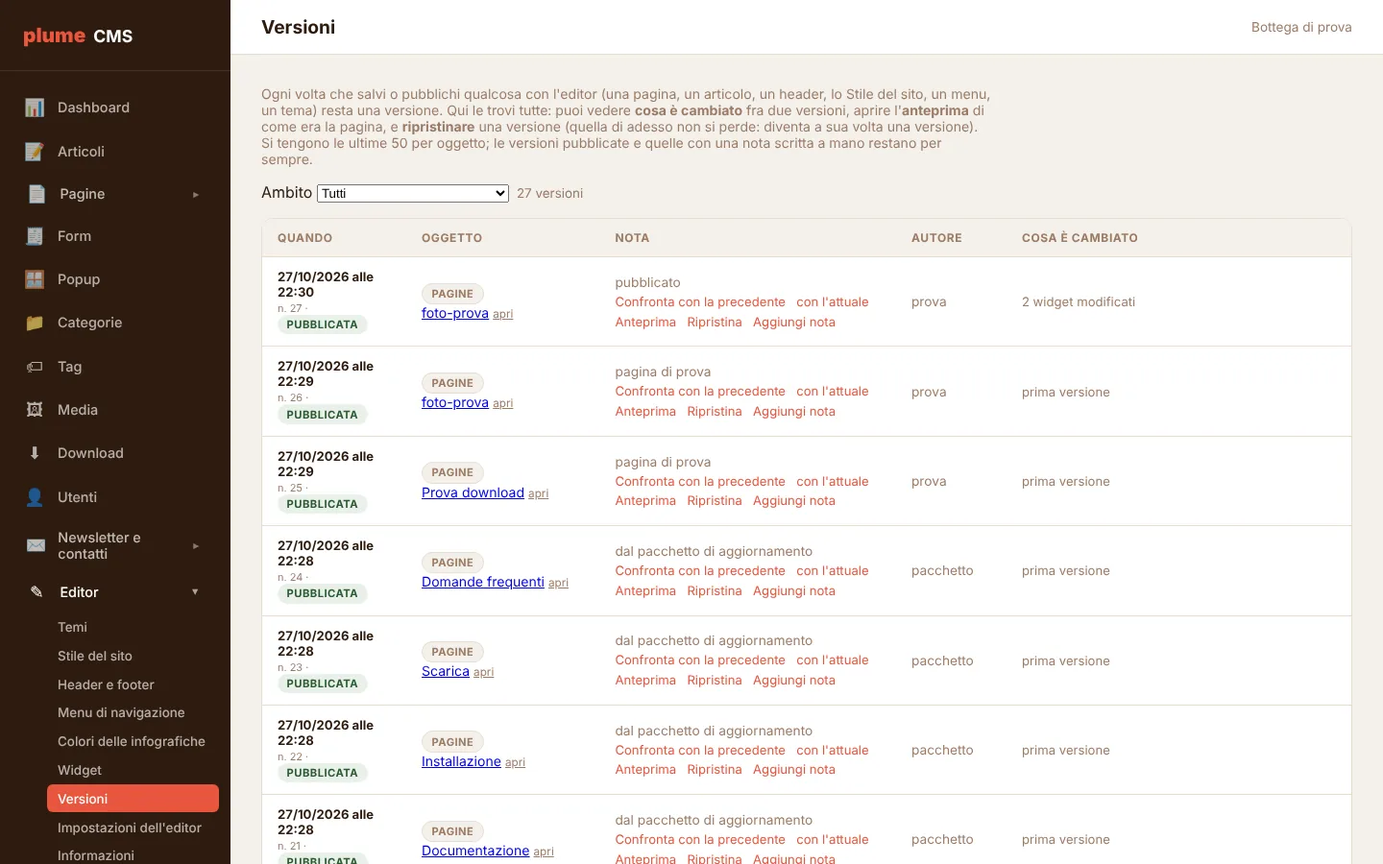
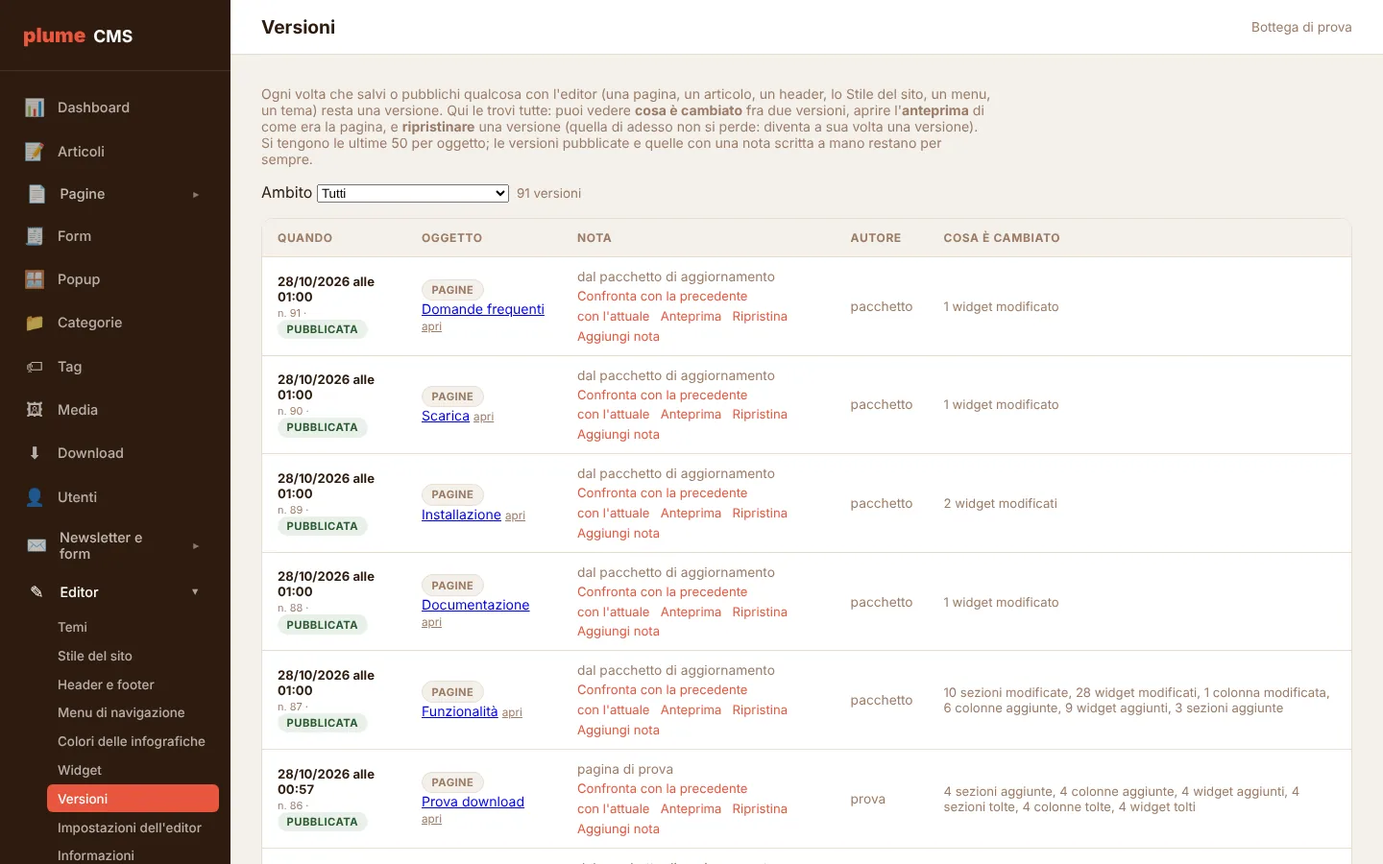
1.3.0: unione provata, testi dei widget extra neutri, sito di plumeCMS con kit, sezioni e copia
- widget Testimonianza, Carosello di testimonianze, Citazione, Titolo animato, Invito, Tabella
  prezzi: gli ultimi testi d'esempio del primo sito, ora neutri;
- sito: novità 1.3.0, blocchi Kit, Sezioni e Copia in Funzionalità, aggiornamenti con la versione
  nuova, passo 4 dell'installazione con i kit, domanda sui kit, 97 attacchi; schermate rifatte;
- prove sul codice unito: installazione 35/36 (favicon), kit Attività in cartella 44/44,
  aggiornamento 1.2.8 -> 1.3.0 11/11 identico al pixel (tranne il conto alla rovescia),
  aperture 161/161, temi 36/36, foto 20/20, sezioni 15/15, copia 30/30, versione 28/28,
  download 35/35, 97 attacchi respinti, sito 60/60.

Claude-Session: https://claude.ai/code/session_01Ddnix1ocLSpj3D8QhkAFuA

diff --git a/sito-plumecms/schermate.js b/sito-plumecms/schermate.js
@@ -25,8 +25,14 @@ const [B, D, UTENTE, PASSWORD] = process.argv.slice(2);
   await foto('editor-ritratto', '/admin/editor.php?tipo=pagine&id=1', () => editor(1, 'hero', 'stile', true));
   await p.setViewportSize({ width: 1440, height: 900 });
   for (const [n, u] of [['dashboard', '/admin/index.php'], ['stile', '/admin/design.php'], ['modelli', '/admin/modelli.php'], ['versioni', '/admin/versioni.php'],
-    ['seo', '/admin/seo.php'], ['flussi', '/admin/newsletter-flussi.php'], ['sicurezza', '/admin/sicurezza.php'], ['aggiornamenti', '/admin/aggiornamenti.php'], ['download', '/admin/scaricabili.php'],
+    ['seo', '/admin/seo.php'], ['flussi', '/admin/newsletter-flussi.php'], ['sicurezza', '/admin/sicurezza.php'], ['aggiornamenti', '/admin/aggiornamenti.php'], ['download', '/admin/scaricabili.php'], ['copia', '/admin/copia-sito.php'],
     ['temi', '/admin/temi.php'], ['menu', '/admin/menu.php'], ['form', '/admin/form.php']]) await foto(n, u);
+  // 1.3.0: l'editor della home con la linguetta Sezioni aperta.
+  await foto('sezioni', '/admin/editor.php?tipo=pagine&id=1', async () => {
+    await p.waitForTimeout(1200);
+    if (await p.locator('#ed-chiudi-revisioni').isVisible()) await p.click('#ed-chiudi-revisioni');
+    await p.click('.ed-schede-pannello button[data-pannello="sezioni"]'); await p.waitForTimeout(600);
+  });
   await p.setViewportSize({ width: 1280, height: 800 });
   for (const t of ['cosmo', 'aria', 'bottega']) await foto('tema-' + t, `/?preview=1&tema=${t}`);
   await br.close();

diff --git a/prove/prova-sito-plumecms.js b/prove/prova-sito-plumecms.js
@@ -115,6 +115,8 @@ async function contrastoParole(pg) {
   ok('nessuna immagine rotta in Funzionalità', imgF.length === 0, imgF);
   ok('Funzionalità: il blocco del download manager, con la schermata', await v.locator('#download img[src*="download.webp"]').count() === 1 && /Download manager/.test(await v.locator('#download').innerText()));
   ok('Funzionalità: il blocco delle undici aperture, con il foglio', await v.locator('#aperture img[src*="aperture.webp"]').count() === 1 && /Undici aperture/.test(await v.locator('#aperture').innerText()));
+  for (const [id, img, re] of [['kit', 'installa-4.webp', /sito vero/], ['sezioni', 'sezioni.webp', /Sezioni pronte/], ['copia', 'copia.webp', /copia del tuo sito/]])
+    ok(`Funzionalità (1.3.0): il blocco ${id}, con la schermata`, await v.locator(`#${id} img[src*="${img}"]`).count() === 1 && re.test(await v.locator(`#${id}`).innerText()));
   ok('favicon del sito', await v.locator('link[rel=icon][href*="favicon.png"]').count() === 1);
 
   // "Installalo in 5 minuti" (pagina Installazione): cosa serve prima e il carosello delle cinque schermate vere

diff --git a/sito-plumecms/costruisci.py b/sito-plumecms/costruisci.py
@@ -186,6 +186,12 @@ def funzionalita():
           '<li>Anteprima per computer, tablet e telefono, con valori diversi per ogni misura.</li>'
           '<li>Colori e caratteri globali: cambi il colore principale e cambia ovunque.</li>'
           '<li>Foto con velo, bianco e nero ed effetti animati, dalla 1.2.2.</li></ul>']),
+        ('kit', 'installa-4.webp', 'Si parte con un sito vero, non con una pagina bianca',
+         ['All\'ultimo passo l\'installatore ti chiede che sito vuoi fare: personale, attività, blog, portfolio, oppure vuoto.',
+          'Scegli, e plumeCMS parte con la home, le pagine principali e il menu già costruiti, con testi d\'esempio che ti dicono cosa scriverci. Tu cambi le parole e metti le tue foto: il sito c\'è già.']),
+        ('sezioni', 'sezioni.webp', 'Sezioni pronte: trenta modi di riempire una pagina',
+         ['Nell\'editor c\'è la linguetta Sezioni: prezzi, testimonianze, chi siamo, servizi, numeri, domande frequenti, contatti, inviti. Trenta sezioni già impaginate, in nove gruppi, ognuna con la sua anteprima.',
+          'Un clic e la sezione entra nella pagina, oppure la trascini dove vuoi. Da lì è una sezione come le altre: cambi testi, colori e widget. E segue i colori del tuo sito e del tema.']),
         ('aperture', 'aperture.webp', 'Undici aperture fra cui scegliere',
          ['La prima cosa che si vede di una pagina è la sua apertura. In plumeCMS la scegli con una tendina, fra undici disposizioni: testo e foto affiancati, tutto al centro, foto a tutto sfondo, divisa a metà, da rivista, in una scheda con il ritratto rotondo, solo parole, a mosaico, con la foto inclinata, a fascia bassa per le pagine interne, con il colore tagliato in diagonale.',
           'Cambi disposizione e i testi restano dove sono: provi, guardi, scegli. Tutte seguono i colori del tuo sito e dei temi, e si leggono bene anche al telefono.']),
@@ -210,10 +216,14 @@ def funzionalita():
           'Nelle pagine li mostri con il widget Download, a elenco o a schede, con icona, peso e pulsante. Come nella <a href="/scarica/">pagina Scarica</a> di questo sito.']),
         ('sicurezza', 'sicurezza.webp', 'Sicurezza, senza doverci pensare ogni giorno',
          ['Password robuste, accesso a due fattori, blocchi automatici contro chi prova a indovinare, sessioni che scadono, Content Security Policy, registro degli eventi.',
-          'Prima di uscire, plumeCMS è stato messo alla prova con 79 attacchi: tutti respinti. La pagina Sicurezza ti dice in verde e in rosso come sta il tuo sito.']),
+          'Prima di uscire, plumeCMS è stato messo alla prova con 97 attacchi: tutti respinti. La pagina Sicurezza ti dice in verde e in rosso come sta il tuo sito.']),
         ('aggiornamenti', 'aggiornamenti.webp', 'Aggiornamenti dal pannello, con la rete sotto',
          ['Un aggiornamento è uno zip: lo carichi da Impostazioni, Aggiornamenti, e premi Applica. Prima di toccare qualunque cosa il pannello fa una copia di sicurezza del database e dei file.',
-          'Se qualcosa va storto, rimette tutto com\'era da solo. Puoi anche programmare l\'aggiornamento per la notte.']),
+          'Se qualcosa va storto, rimette tutto com\'era da solo. Puoi anche programmare l\'aggiornamento per la notte.',
+          'Dalla 1.3.0 non devi nemmeno cercarlo: quando esce una versione nuova la dashboard te lo dice, e con Scarica e prepara lo zip arriva da solo, controllato, pronto da applicare.']),
+        ('copia', 'copia.webp', 'La copia del tuo sito, con un clic',
+         ['In Impostazioni, Copia del sito: Prepara la copia mette in uno zip il database, le immagini, i temi e i moduli. La scarichi e la tieni al sicuro.',
+          'Se un giorno serve tornare indietro, o spostare il sito su un altro hosting, Ripristina rimette tutto com\'era. Prima, per sicurezza, fa da sola una copia del sito di adesso.']),
     ]
     for i, (ancora, img, tit, testo) in enumerate(blocchi):
         foto = [immagine(img, 'plumeCMS: ' + tit)]
@@ -297,8 +307,8 @@ PASSI_INSTALLA = [
      'Scrivi host (di solito localhost), nome, utente e password del database. Il prefisso delle tabelle lascialo com\'è, a meno che nello stesso database ci sia già un altro sito.'),
     ('Sito e amministratore', 'Il nome del sito, l\'indirizzo (lo trova da solo) e il tuo utente.',
      'Nome del sito, una descrizione in una riga, l\'indirizzo e il tuo utente con una password di almeno 12 caratteri. Annotala: è la chiave di casa.'),
-    ('Installazione', 'Il riepilogo di quello che succede. Premi Installa adesso.',
-     'Prima di toccare qualcosa l\'installatore ti dice cosa farà: tabelle, amministratore, pagine di partenza, menu, header e footer. Premi Installa adesso e aspetti qualche secondo.'),
+    ('Installazione', 'Scegli che sito vuoi fare, poi Installa adesso.',
+     'Scegli il punto di partenza: personale, attività, blog, portfolio, oppure vuoto. L\'installatore ti dice cosa farà (tabelle, amministratore, pagine, menu, header e footer): premi Installa adesso e aspetti qualche secondo.'),
     ('Fine', 'Il sito è pronto. Entri nel pannello e cominci.',
      'Trovi il link al pannello e quello al sito, e le due righe per i compiti pianificati. Entri, scegli un tema e il sito è tuo.'),
 ]
@@ -395,6 +405,7 @@ def faq():
     voci = [
         ('Quanto costa? A quali condizioni lo uso?', 'Niente: plumeCMS è software libero, con licenza GNU GPL versione 3. Lo usi per tutti i siti che vuoi, tuoi o dei tuoi clienti, lo modifichi e lo ridistribuisci. Una sola regola: chi lo ridistribuisce, anche modificato, lo fa con la stessa licenza. I tuoi siti, i contenuti e i temi che disegni restano tuoi.'),
         ('Devo saper programmare?', 'No. Installi dal browser, costruisci le pagine trascinando i widget, cambi colori e caratteri da una pagina sola. Il codice serve solo se vuoi costruire un tema o un modulo tuo.'),
+        ('Devo partire da una pagina bianca?', 'No. All\'installazione scegli che sito vuoi fare (personale, attività, blog, portfolio) e plumeCMS parte con la home, le pagine e il menu già fatti. Poi, nell\'editor, la linguetta Sezioni ti dà trenta sezioni pronte da aggiungere con un clic.'),
         ('Che hosting serve?', 'Un hosting con PHP 8.2 o più nuovo e MySQL 8 (o MariaDB 10.6). Va bene un normale hosting condiviso con cPanel: non servono server dedicati.'),
         ('Posso installarlo in una cartella del mio dominio?', 'Sì. All\'installazione scrivi l\'indirizzo con la cartella, per esempio https://tuosito.it/nuovo, e plumeCMS sistema da solo link e percorsi.'),
         ('Se cambio tema, perdo le pagine?', 'No. Il tema cambia l\'aspetto: colori, caratteri, header e footer. Pagine, articoli, menu e immagini restano come sono. E lo stile di prima resta nelle Versioni.'),
@@ -490,7 +501,7 @@ def editor_json():
 
 
 # ------------------------------------------------------------------ file
-USATE = ['copertina', 'installa-1', 'installa-2', 'installa-3', 'installa-4', 'installa-5', 'editor-ritratto', 'editor', 'aperture', 'stile', 'modelli', 'versioni', 'seo', 'flussi', 'download', 'sicurezza', 'aggiornamenti', 'temi',
+USATE = ['copertina', 'sezioni', 'copia', 'installa-1', 'installa-2', 'installa-3', 'installa-4', 'installa-5', 'editor-ritratto', 'editor', 'aperture', 'stile', 'modelli', 'versioni', 'seo', 'flussi', 'download', 'sicurezza', 'aggiornamenti', 'temi',
          'tema-cosmo', 'tema-aria', 'tema-bottega']
 
 
@@ -536,6 +547,10 @@ def zip_lavagna(dest):
 
 # Le novità per chi scarica: brevi, scritte qui (il CHANGELOG è per chi sviluppa). Da aggiornare a ogni versione.
 NOVITA = [
+    ('1.3.0', 'Si parte con un sito vero', ['All\'installazione scegli che sito vuoi fare: personale, attività, blog, portfolio. Parte già fatto.',
+                                           'Nell\'editor, trenta sezioni pronte da mettere nella pagina con un clic.',
+                                           'Il pannello ti dice quando esce una versione nuova, e la prepara da solo.',
+                                           'La copia del sito con un clic, e il ripristino quando serve.']),
     ('1.2.8', 'Software libero, di tutti', ['plumeCMS ha la sua licenza: GNU GPL versione 3. Lo usi, lo modifichi, lo condividi.',
                                             'Testi d\'esempio neutri e niente più pezzi del sito da cui è nato.',
                                             'Corretti il controllo "Sono una persona" nei siti installati nella radice e la pubblicazione di notte.']),

diff --git a/cms/includes/editor-widget-extra-c.php b/cms/includes/editor-widget-extra-c.php
@@ -38,7 +38,7 @@ ewx_registra('ancora_menu', 'Ancora di menu', 'pin', 'Elementi', [
 // ---------------- Citazione (Blockquote)
 ewx_registra('citazione', 'Citazione', 'citazione-piena', 'Elementi', [
     ec('aspetto', 'scelta', 'Aspetto', 'bordo', 'contenuto', ['opzioni' => ['bordo' => 'Bordo a sinistra', 'virgolette' => 'Con le virgolette', 'riquadro' => 'Riquadro', 'pulito' => 'Pulito'], 'sezione' => 'Citazione']),
-    ec('testo', 'testolungo', 'Testo', 'Non lavoro per renderti piu forte. Lavoro per farti portare meno peso.', 'contenuto', ['sezione' => 'Citazione']),
+    ec('testo', 'testolungo', 'Testo', 'Le cose semplici, fatte bene, sono quelle che restano.', 'contenuto', ['sezione' => 'Citazione']),
     ec('autore', 'testo', 'Autore', (string)cms_impostazione('citazione_autore', cms_impostazione('autore_predefinito', '')), 'contenuto', ['sezione' => 'Citazione']),
     ewx_allinea('allineamento', 'Citazione', ''),
     ec('condividi_su', 'scelta', 'Pulsante di condivisione', '', 'contenuto', ['opzioni' => ['' => 'Nessuno', 'x-social' => 'X', 'linkedin' => 'LinkedIn', 'whatsapp' => 'WhatsApp', 'copia' => 'Copia il testo'], 'sezione' => 'Condivisione']),
@@ -79,10 +79,10 @@ ewx_registra('invito_libero', 'Invito all\'azione', 'megafono', 'Marketing', [
     ec('immagine', 'immagine', 'Immagine', '', 'contenuto', ['sezione' => 'Immagine']),
     ec('immagine_posizione', 'scelta', 'Posizione dell\'immagine', 'sopra', 'contenuto', ['opzioni' => ['sopra' => 'Sopra', 'sinistra' => 'A sinistra', 'destra' => 'A destra'], 'condizione' => ['aspetto' => 'classico'], 'sezione' => 'Immagine']),
     ex('icona', 'icona', 'Icona (facoltativa, sopra il titolo)', '', 'contenuto', ['sezione' => 'Contenuto']),
-    ec('titolo', 'testo', 'Titolo', 'Fai chiarezza in 15 minuti', 'contenuto', ['sezione' => 'Contenuto']),
+    ec('titolo', 'testo', 'Titolo', 'Parliamone', 'contenuto', ['sezione' => 'Contenuto']),
     ewx_livello('h3'),
-    ec('testo', 'testolungo', 'Testo', 'Una conversazione breve, su una situazione vera. Si esce con una cosa concreta da fare.', 'contenuto', ['sezione' => 'Contenuto']),
-    ec('pulsante_testo', 'testo', 'Testo del pulsante', 'Prenota', 'contenuto', ['sezione' => 'Pulsante']),
+    ec('testo', 'testolungo', 'Testo', 'Raccontaci cosa ti serve: ti rispondiamo con una proposta concreta.', 'contenuto', ['sezione' => 'Contenuto']),
+    ec('pulsante_testo', 'testo', 'Testo del pulsante', 'Scrivici', 'contenuto', ['sezione' => 'Pulsante']),
     ewx_link('link', 'Link'),
     ec('link_su', 'scelta', 'Il link vale su', 'pulsante', 'contenuto', ['opzioni' => ['pulsante' => 'Solo il pulsante', 'tutto' => 'Tutto il riquadro'], 'sezione' => 'Pulsante']),
     ec('nastro', 'testo', 'Nastro (facoltativo)', '', 'contenuto', ['sezione' => 'Nastro']),
@@ -258,9 +258,9 @@ ewx_registra('flip_box', 'Flip box', 'copia', 'Gallerie', [
 // ---------------- Titolo animato (Animated Headline)
 ewx_registra('titolo_animato', 'Titolo animato', 'bacchetta', 'Marketing', [
     ec('modo', 'scelta', 'Modo', 'evidenziato', 'contenuto', ['opzioni' => ['evidenziato' => 'Parola evidenziata (disegno)', 'rotante' => 'Parole che si alternano'], 'sezione' => 'Titolo']),
-    ec('prima', 'testo', 'Testo prima', 'Il problema non e', 'contenuto', ['sezione' => 'Titolo']),
-    ec('evidenziato', 'testo', 'Parola evidenziata', 'il team', 'contenuto', ['condizione' => ['modo' => 'evidenziato'], 'sezione' => 'Titolo']),
-    ec('rotanti', 'testolungo', 'Parole che si alternano (una per riga)', "il team\nil capo\nil carico", 'contenuto', ['condizione' => ['modo' => 'rotante'], 'sezione' => 'Titolo']),
+    ec('prima', 'testo', 'Testo prima', 'Un sito che è', 'contenuto', ['sezione' => 'Titolo']),
+    ec('evidenziato', 'testo', 'Parola evidenziata', 'tuo', 'contenuto', ['condizione' => ['modo' => 'evidenziato'], 'sezione' => 'Titolo']),
+    ec('rotanti', 'testolungo', 'Parole che si alternano (una per riga)', "veloce\nchiaro\ntuo", 'contenuto', ['condizione' => ['modo' => 'rotante'], 'sezione' => 'Titolo']),
     ec('dopo', 'testo', 'Testo dopo', '', 'contenuto', ['sezione' => 'Titolo']),
     ewx_livello('h2'),
     ewx_link(),
@@ -336,14 +336,14 @@ ewx_registra('listino', 'Listino', 'euro', 'Marketing', [
 // ---------------- Tabella prezzi (Price Table)
 ewx_registra('tabella_prezzi', 'Tabella prezzi', 'tabella', 'Marketing', [
     ec('titolo', 'testo', 'Titolo', (string)cms_impostazione('w_prezzi_titolo', 'I nostri piani'), 'contenuto', ['sezione' => 'Intestazione']),
-    ec('sottotitolo', 'testo', 'Sottotitolo', 'Tre mesi, un incontro a settimana', 'contenuto', ['sezione' => 'Intestazione']),
+    ec('sottotitolo', 'testo', 'Sottotitolo', 'Tutto quello che serve per cominciare', 'contenuto', ['sezione' => 'Intestazione']),
     ec('valuta', 'testo', 'Simbolo della valuta', 'EUR', 'contenuto', ['sezione' => 'Prezzo']),
     ec('valuta_posizione', 'scelta', 'Posizione della valuta', 'prima', 'contenuto', ['opzioni' => ['prima' => 'Prima del numero', 'dopo' => 'Dopo il numero'], 'sezione' => 'Prezzo']),
-    ec('prezzo', 'testo', 'Prezzo', '490', 'contenuto', ['sezione' => 'Prezzo']),
+    ec('prezzo', 'testo', 'Prezzo', '49', 'contenuto', ['sezione' => 'Prezzo']),
     ec('decimali', 'testo', 'Decimali (facoltativi)', '', 'contenuto', ['sezione' => 'Prezzo']),
     ec('prezzo_vecchio', 'testo', 'Prezzo barrato (facoltativo)', '', 'contenuto', ['sezione' => 'Prezzo']),
-    ec('periodo', 'testo', 'Periodo', '/ percorso', 'contenuto', ['sezione' => 'Prezzo']),
-    ec('voci', 'ripetitore', 'Cosa comprende', [['testo' => '12 incontri da un\'ora', 'icona' => 'spunta'], ['testo' => 'Messaggi fra un incontro e l\'altro', 'icona' => 'spunta'], ['testo' => 'Materiale di lavoro', 'icona' => 'spunta']], 'contenuto', ['campi' => [
+    ec('periodo', 'testo', 'Periodo', '/ mese', 'contenuto', ['sezione' => 'Prezzo']),
+    ec('voci', 'ripetitore', 'Cosa comprende', [['testo' => 'Prima cosa compresa', 'icona' => 'spunta'], ['testo' => 'Seconda cosa compresa', 'icona' => 'spunta'], ['testo' => 'Assistenza via email', 'icona' => 'spunta']], 'contenuto', ['campi' => [
         ec('testo', 'testo', 'Testo', 'Nuova voce'), ex('icona', 'icona', 'Icona', 'spunta'),
     ], 'titolo_voce' => 'testo', 'sezione' => 'Elenco']),
     ec('pulsante_testo', 'testo', 'Testo del pulsante', 'Scegli', 'contenuto', ['sezione' => 'Pulsante']),

diff --git a/cms/includes/editor-widget-extra-b.php b/cms/includes/editor-widget-extra-b.php
@@ -98,8 +98,8 @@ ewx_registra('carosello', 'Carosello di immagini', 'frecce-scambia', 'Gallerie',
 // ---------------- Carosello di testimonianze
 ewx_registra('carosello_testimonianze', 'Carosello di testimonianze', 'messaggi', 'Gallerie', array_merge([
     ec('voci', 'ripetitore', 'Testimonianze', [
-        ['testo' => 'Dopo tre incontri ho smesso di portarmi a casa le riunioni.', 'nome' => 'Nome Cognome', 'ruolo' => 'Responsabile di area', 'immagine' => '', 'stelle' => 0],
-        ['testo' => 'Ho capito dove finisce il mio ruolo e dove comincia quello degli altri.', 'nome' => 'Nome Cognome', 'ruolo' => 'Project manager', 'immagine' => '', 'stelle' => 0],
+        ['testo' => 'Puntuali, chiari, gentili. Lo consiglio a chiunque.', 'nome' => 'Nome Cognome', 'ruolo' => 'Cliente', 'immagine' => '', 'stelle' => 0],
+        ['testo' => 'Hanno capito subito cosa ci serviva, e l\'hanno fatto meglio.', 'nome' => 'Nome Cognome', 'ruolo' => 'Cliente', 'immagine' => '', 'stelle' => 0],
     ], 'contenuto', ['campi' => [
         ec('testo', 'testolungo', 'Testo', 'Il testo della testimonianza.'), ec('nome', 'testo', 'Nome', 'Nome Cognome'), ec('ruolo', 'testo', 'Ruolo', ''), ec('immagine', 'immagine', 'Foto', ''), ec('stelle', 'numero', 'Stelle (0 = nessuna)', 0, 'contenuto', ['min' => 0, 'max' => 5]),
     ], 'titolo_voce' => 'nome', 'sezione' => 'Testimonianze']),

diff --git a/cms/includes/editor-widget-extra-a.php b/cms/includes/editor-widget-extra-a.php
@@ -222,10 +222,10 @@ ewx_registra('barra_avanzamento', 'Barra di avanzamento', 'grafico-barre', 'Nume
 function ewx_controlli_testimonianza(bool $singola = true): array {
     $c = [];
     if ($singola) {
-        $c[] = ec('testo', 'testolungo', 'Testo', 'Dopo tre incontri ho smesso di portarmi a casa le riunioni. Non e cambiato il lavoro: e cambiato dove sto io.', 'contenuto', ['sezione' => 'Testimonianza']);
+        $c[] = ec('testo', 'testolungo', 'Testo', 'Ci hanno seguito dal primo giorno, con pazienza e idee chiare. Il risultato è andato oltre quello che speravamo.', 'contenuto', ['sezione' => 'Testimonianza']);
         $c[] = ec('immagine', 'immagine', 'Foto', '', 'contenuto', ['sezione' => 'Testimonianza']);
         $c[] = ec('nome', 'testo', 'Nome', 'Nome Cognome', 'contenuto', ['sezione' => 'Testimonianza']);
-        $c[] = ec('ruolo', 'testo', 'Ruolo', 'Responsabile di area', 'contenuto', ['sezione' => 'Testimonianza']);
+        $c[] = ec('ruolo', 'testo', 'Ruolo', 'Cliente', 'contenuto', ['sezione' => 'Testimonianza']);
         $c[] = ec('stelle', 'numero', 'Stelle (0 = nessuna)', 0, 'contenuto', ['min' => 0, 'max' => 5, 'sezione' => 'Testimonianza']);
     }
     return array_merge($c, [

diff --git a/CLAUDE.md b/CLAUDE.md
@@ -85,7 +85,7 @@ Stato, decisioni, contesto e diario non stanno qui: stanno nel second brain
 - **Pacchetto di aggiornamento** per un'installazione esistente:
   `python3 tools/cms-pacchetto.py --aggiornamento`. Si carica dal pannello,
   Impostazioni, Aggiornamenti.
-- **Versione**: `cms/VERSIONE` (oggi 1.2.8) e una voce in `cms/CHANGELOG.md` a ogni
+- **Versione**: `cms/VERSIONE` (oggi 1.3.0) e una voce in `cms/CHANGELOG.md` a ogni
   zip con contenuto diverso. Mai cambiare il contenuto di una versione già data.
 - **Prove** prima di dire finito:
   - `php -n -d short_open_tag=1 -l` su ogni file PHP toccato, `node --check` sui js;
@@ -121,7 +121,10 @@ Le decisioni complete, con data e perché, stanno nel second brain, `plumecms/de
 
 ## Stato al 27 ottobre 2026
 
-Fatto: plumeCMS 1.2.8: licenza GNU GPL 3 o successiva (`LICENSE`); tolto dal prodotto tutto ciò che era di danilofailli.it
+Fatto: plumeCMS 1.3.0 (notte del 27 ottobre, un agente con il ciclo PDCA): kit di partenza nell'installatore (`includes/kit-partenza.php`,
+`includes/kit/`), 30 sezioni pronte nell'editor (`includes/sezioni-pronte*.php`), "c'è una versione nuova" (`includes/versione-nuova.php`,
+`api/versione.php`), copia del sito (`includes/copia-sito.php`, Impostazioni > Copia del sito); prove `prova-kit.js`, `prova-sezioni.js`,
+`prova-copia.js`, `prova-versione.js`; 97 attacchi respinti. 1.2.8: licenza GNU GPL 3 o successiva (`LICENSE`); tolto dal prodotto tutto ciò che era di danilofailli.it
 (moduli ebook e Laser, CTA, box del burnout, aforismi come tipo fisso, testi d'esempio, glossario PNL, mittente); agganci
 `moduli_disponibili`, `modulo_html`, `pagina_moduli`, `sito_percorso`; corretti captcha nella radice, Contatti con il modulo laser,
 pubblicazione di notte. Il sito di plumeCMS ha la piuma disegnata in copertina e "Installalo in 5 minuti" con le schermate vere. 1.2.7: margine di Centrata, Copertina, Rivista e Scheda; la home del sito di plumeCMS apre con la Copertina (scelta di Danilo). 1.2.6: tendina Disposizione dell'Apertura, dieci disposizioni nuove più la classica (identica al pixel
@@ -138,7 +141,7 @@ sottocartella; aggiornamento 1.1.9 -> 1.2.0 dal pannello provato con sito identi
 78 prove di attacco respinte (la 79esima è del modulo danilofailli). Le prove del CMS girano su PHP 8.3 con
 MySQL 8.0: su PHP 8.4.27 sono provate la sintassi di ogni file e i `.htaccess` su Apache, non il CMS intero
 (senza `pdo_mysql` nell'immagine, e i pacchetti Debian bloccati dalla rete della sessione).
-Prima installazione vera su `https://duhtron.it/test` (cartella), funzionante con la 1.1.9: da aggiornare alla 1.2.8.
+Prima installazione vera su `https://duhtron.it/test` (cartella), funzionante con la 1.1.9: da aggiornare alla 1.3.0.
 Dal 27 ottobre plumeCMS vive nel suo progetto e repository (`SPOSTARE.md`).
 
 Aperto:
@@ -149,6 +152,11 @@ Aperto:
   `define('CMS_PREFISSO', 'newdf_');` al `config.local.php` di danilofailli.it;
 - prova vera delle chiamate a Google Search Console e IndexNow da un server con rete aperta;
 - favicon di partenza (l'installazione pulita risponde 404 su `/favicon.ico`);
+- **indirizzo del sito ufficiale** per "c'è una versione nuova": `VERSIONE_SITO_UFFICIALE` in `includes/versione-nuova.php` vale
+  `https://duhtron.it/test`, provvisorio, da confermare con Danilo; quel sito deve avere la 1.3.0 (per `api/versione.php`);
+- copia del sito: il ripristino non toglie i file che stanno nel sito ma non nella copia; con due installazioni nello stesso database
+  e prefissi che cominciano uguale (`cms_` e `cms_b_`) la copia prende anche le tabelle dell'altra;
+- "c'è una versione nuova" provato solo in http locale (`CMS_AGGIORNAMENTI_HTTP_PROVA`): HTTPS vero da provare su un server;
 - **danilofailli.it e la 1.2.8**: lì ebook, Laser, CTA, box del test e aforismi servono ancora. Quando si porta il nucleo 1.2.8, il
   modulo `moduli/danilofailli/` deve ridarli con i filtri e l'evento nuovi (manuale tecnico 15.4), e i file tolti (`admin/contatti.php`...)
   tornano nel modulo. Mai lo zip del prodotto là: il pacchetto di aggiornamento 1.2.8 li cancella (`TOLTI` in `tools/cms-pacchetto.py`);
@@ -209,6 +217,7 @@ Errori veri, già pagati. Non ripeterli.
 | Un pacchetto più grande del limite di caricamento del server | "Il file supera il limite di caricamento del server": il pacchetto unico del sito di plumeCMS (5 MB) è stato rifiutato dal primo hosting vero (27 ottobre 2026), che accetta 1,2 MB. Ora il costruttore lo divide in parti sotto 1900 KB (il predefinito di PHP è 2M). Anche i PDF: con i tag di accessibilità e Inter variabile pesavano il doppio |
 | `editor_widget_registrati()` per sapere quali fogli caricare | dà solo i widget esterni, non quelli del nucleo: l'anteprima dell'editor non caricava i fogli delle disposizioni dell'Apertura e le mostrava senza stile (1.2.6, trovato dalla prova dell'editor, non da quella del sito). E le viste mettono ogni `<link>` davanti al precedente: l'ordine dei fogli di un widget si capovolge se non lo si dà al contrario |
 | Una regola di un foglio nuovo con un solo nome di classe (`.ed-hero-copertina{padding:...}`) | perde contro `.ed-w-hero .hero{padding:0}` di `sito.css`: nella 1.2.6 testo e pulsanti della Copertina toccavano il bordo, e nessuna prova lo vedeva (passavano tutte). Le regole sul contenitore di una disposizione si scrivono `.ed-hero.ed-hero-<id>`; le foto si guardano anche sul sito vero, non solo sulla pagina di prova |
+| Cercare i resti di un sito con le sue parole (danilofailli, laser, ebook) | sfuggono le frasi: i widget extra avevano ancora "Non lavoro per renderti più forte", "Fai chiarezza in 15 minuti", un listino a incontri. Si guarda la pagina con tutti i widget, a occhio |
 | Fidarsi del resoconto di un agente | è successo che un agente dichiarasse lavoro mai scritto su disco. Si controllano i file veri e si rifanno le prove |
 
 ## Tono con l'utente

diff --git a/cms/CHANGELOG.md b/cms/CHANGELOG.md
@@ -21,6 +21,8 @@ Il prodotto si chiama **plumeCMS** (nome scelto il 26 ottobre 2026; prima, per p
   averne fatta una del sito di adesso. Per i siti con un limite di caricamento basso, la copia si mette nella cartella
   `aggiornamenti/copie/` con il gestore dei file e si ripristina dall'elenco. Da una copia di un altro sito i file con
   codice PHP non entrano.
+- Gli ultimi testi d'esempio pensati per il primo sito, nei widget Testimonianza, Carosello di testimonianze, Citazione,
+  Titolo animato, Invito libero e Tabella prezzi, ora sono neutri.
 - **Per chi fa siti con plumeCMS**: `api/versione.php?serie=<serie>` dice versione, nome, sha256 e dimensione dell'ultimo
   file di una serie del download manager.
 

diff --git a/prove/LEGGIMI.md b/prove/LEGGIMI.md
@@ -177,8 +177,6 @@ Nell'editor: linguetta, categorie e varianti, ricerca, clic sotto la sezione sel
 trascinamento costruiti nel browser: Playwright non trascina dal pannello dentro l'iframe), modifica, Pubblica; sul sito
 `/sezioni-pronte/` al computer e al telefono con il contrasto del testo. Atteso: 15 su 15, anche con
 `tema-cli.php attiva cosmo|aria|bottega`. Lascia una pagina "Nuova pagina" pubblicata: da cancellare dopo.
-Di notte (00-06) la pagina pubblicata si guarda con `?preview=1`: una pagina pubblicata in quelle ore esce alle 06:00
-(difetto noto del CMS, non delle sezioni pronte).
 
 ## prova-copia.js (1.3.0)
 
